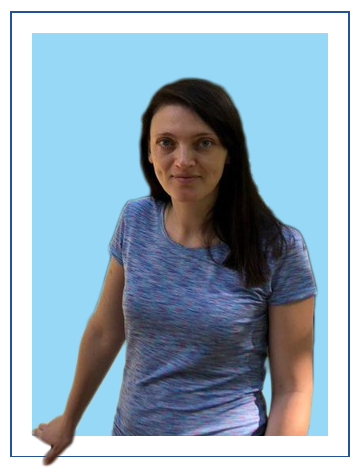
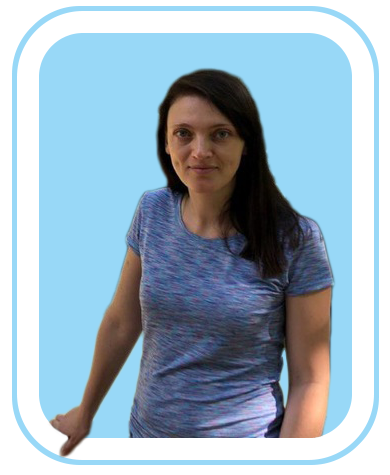
fix: change photo and css position for photo

Changed region(s): [[0.0307, 0.0, 0.9832, 1.0], [0.7067, 0.3848, 0.7374, 0.4144], [0.0307, 0.9471, 0.0615, 0.9767]]

diff --git a/style.css b/style.css
@@ -66,7 +66,7 @@ body {
     display: block;
     right: 50px;
     position: absolute;
-    width: 421px;
+    width: 452px;
 }
 
 .name-position {
